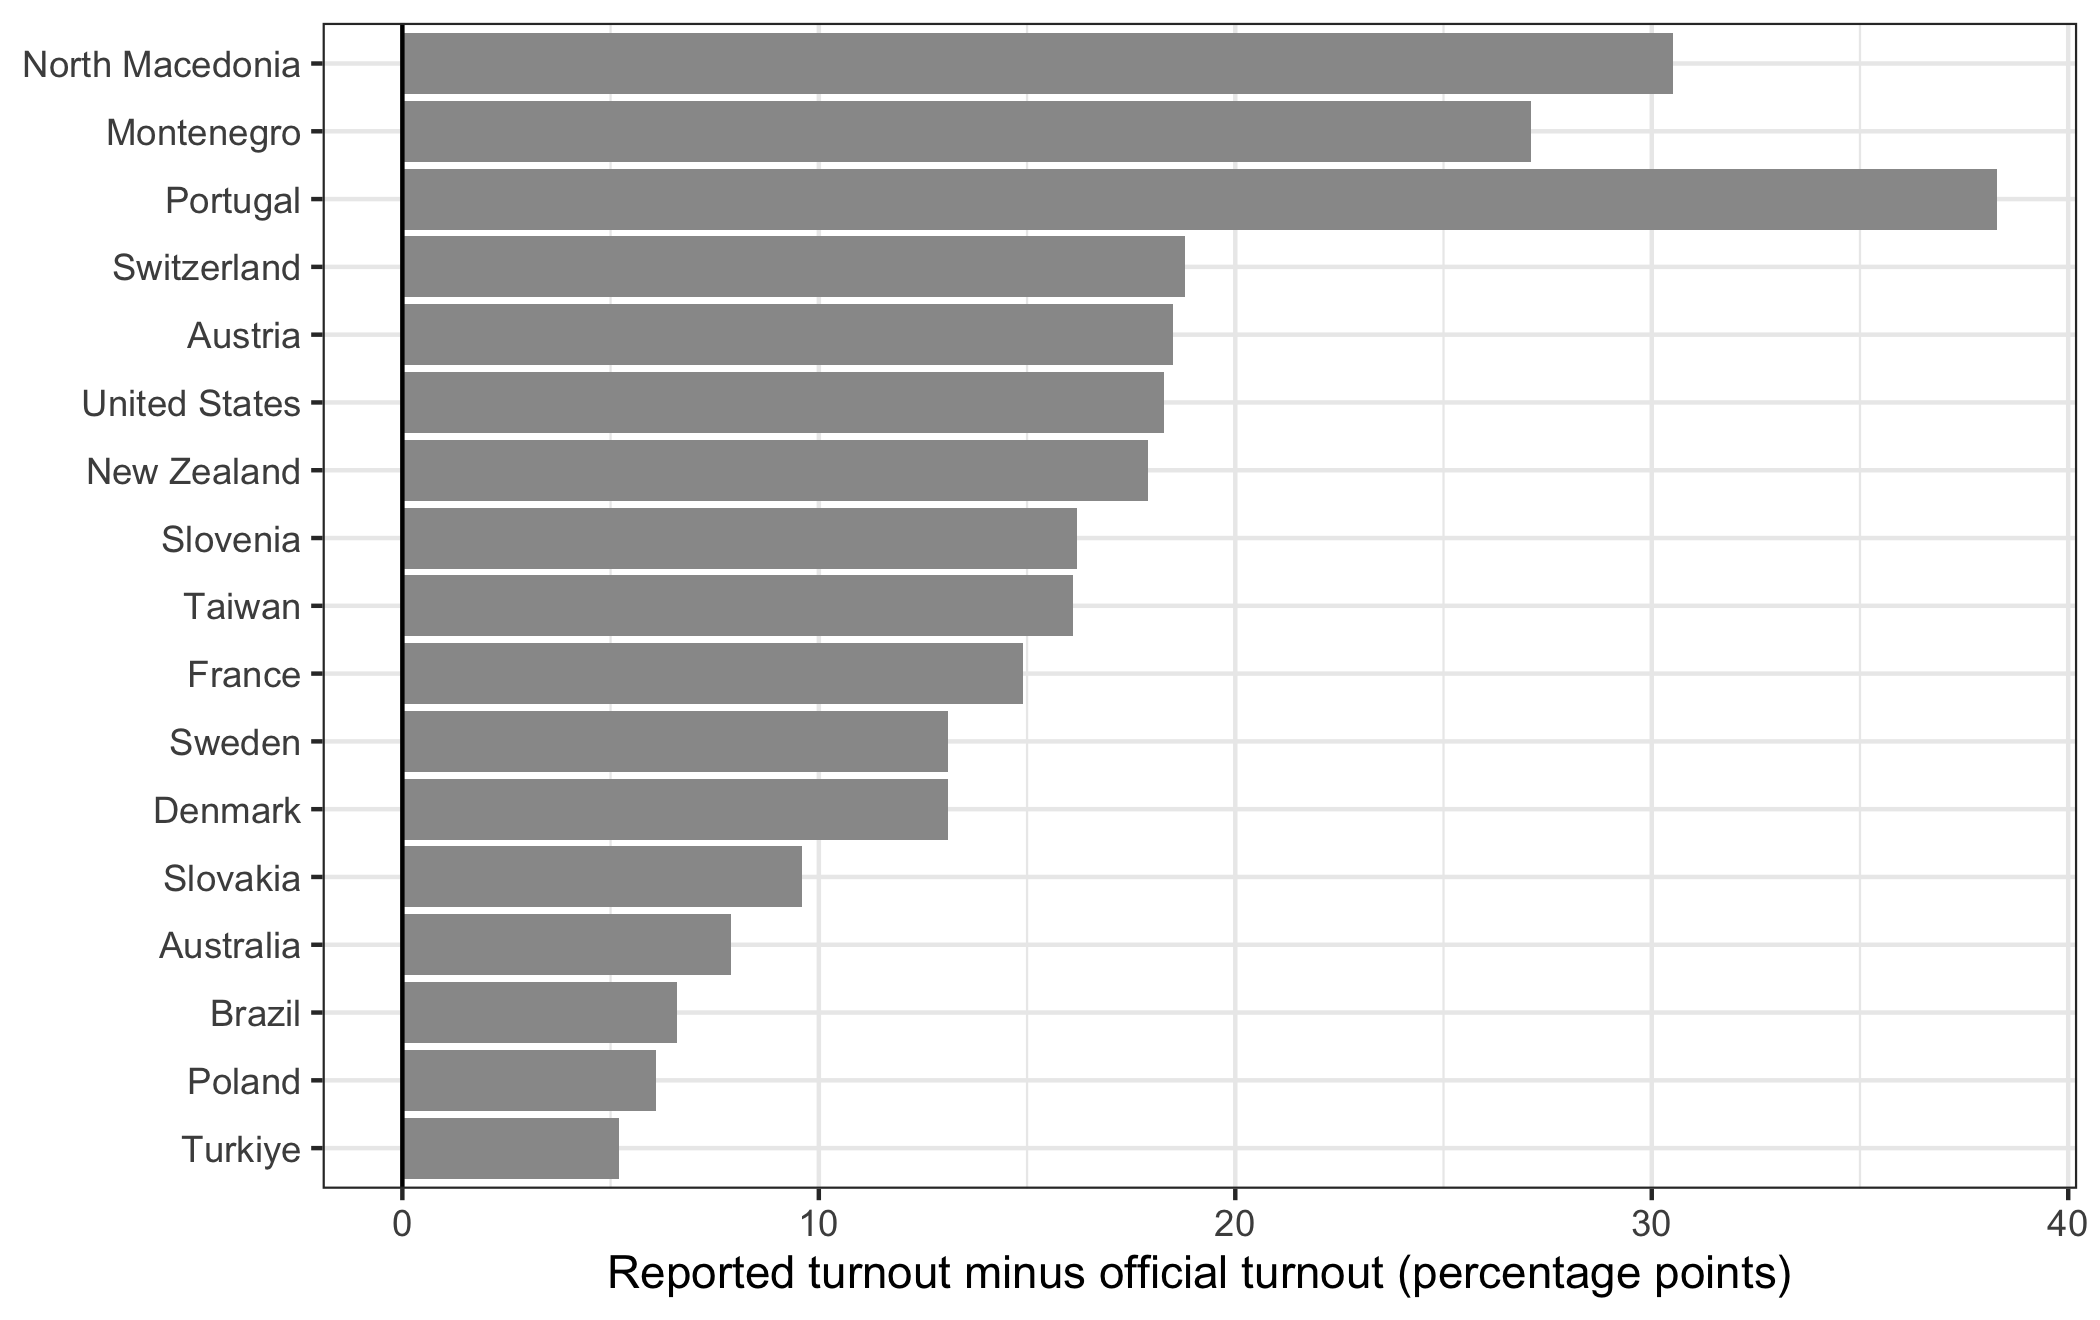
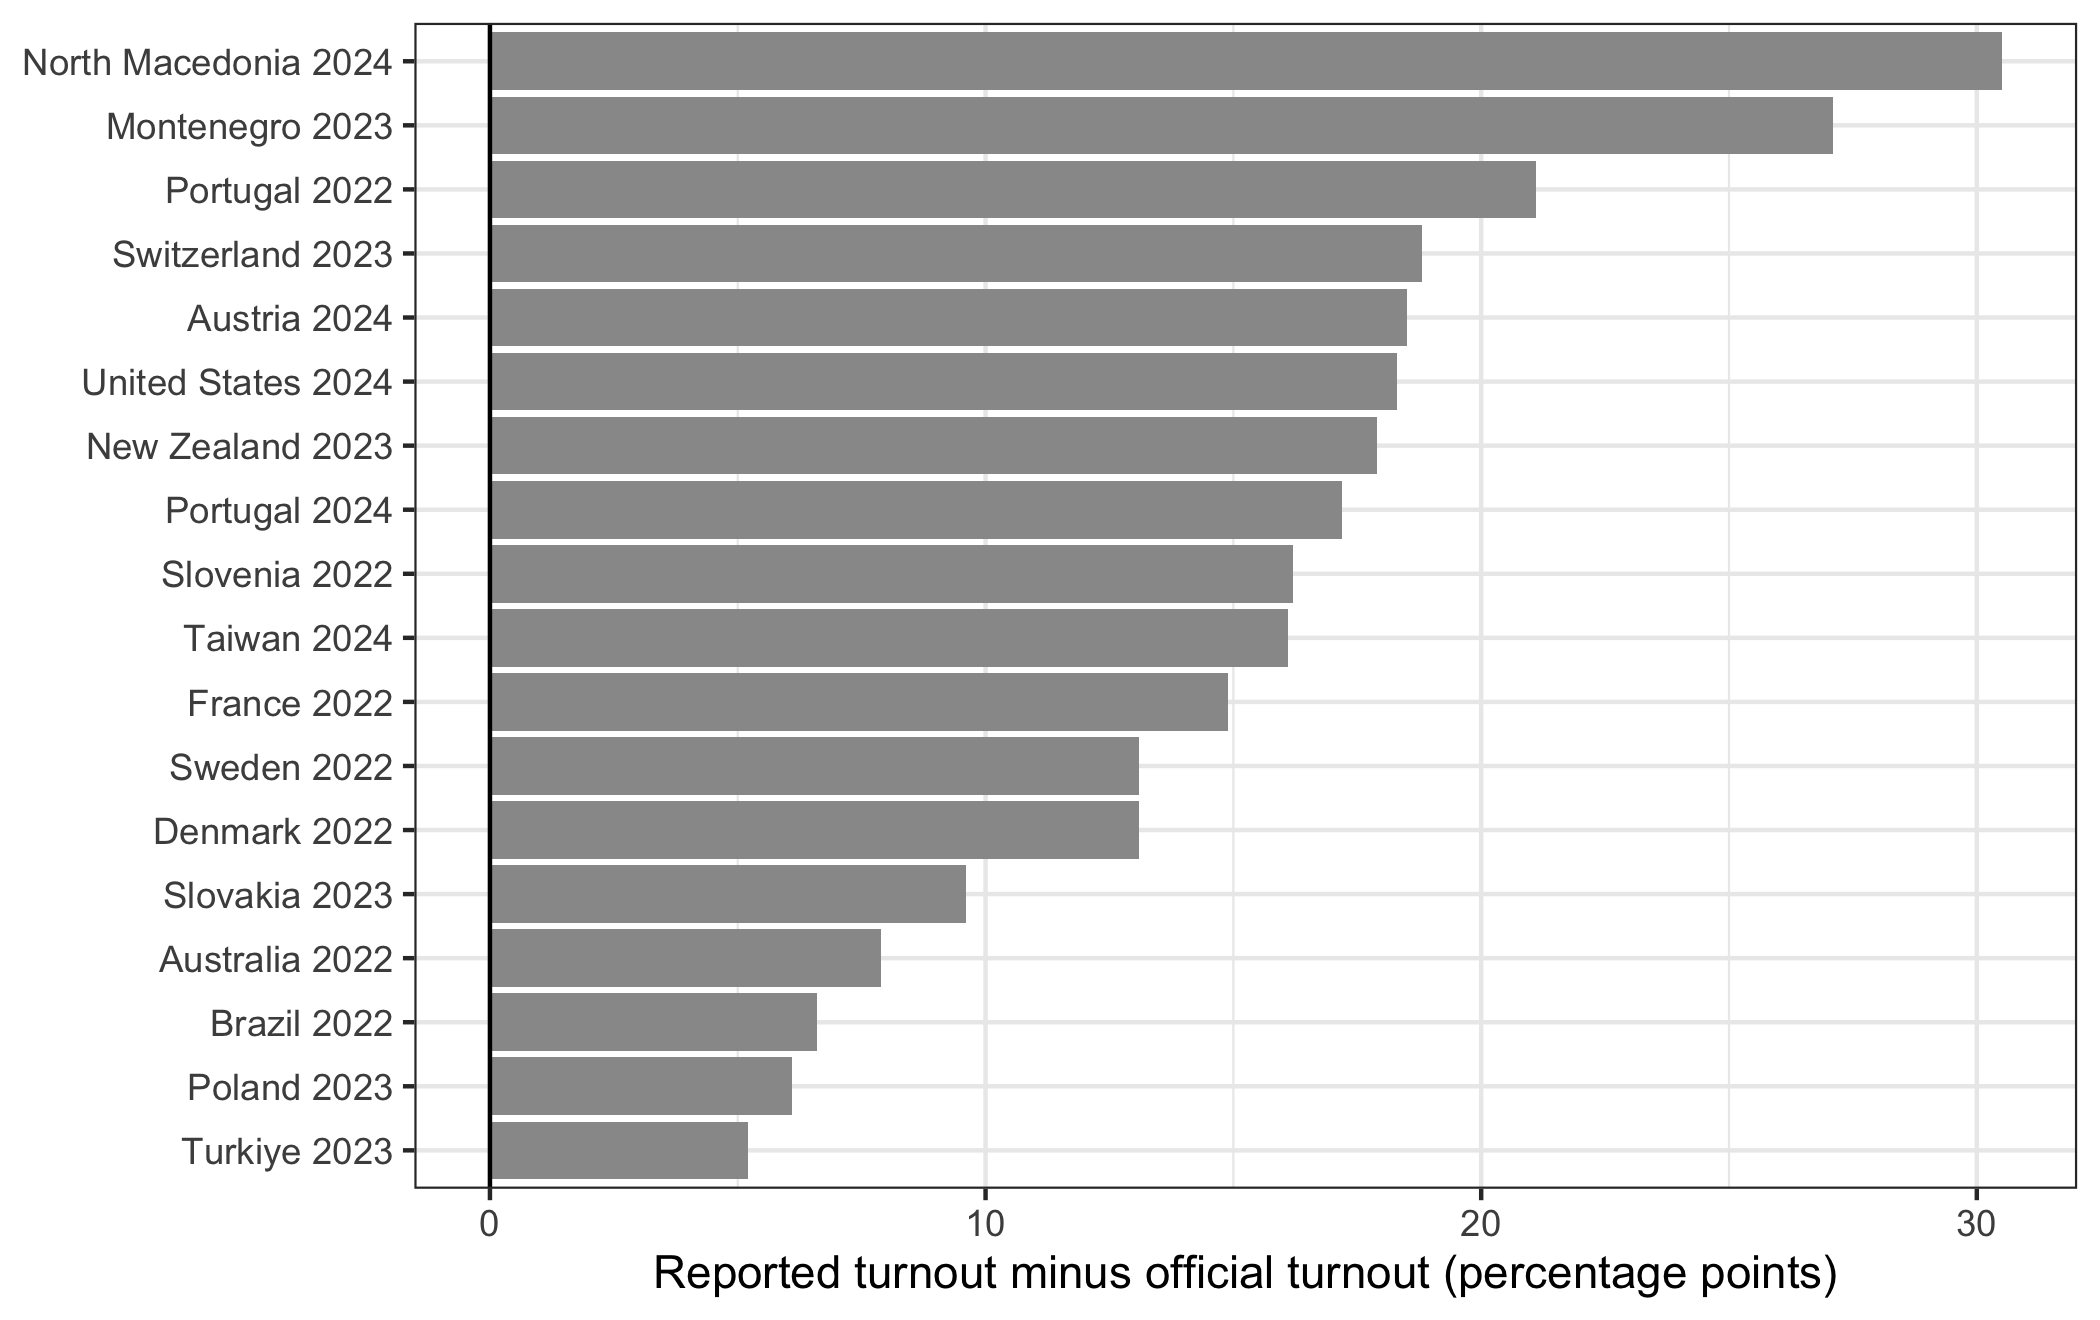
Fix the turnout chart in session 6: one bar per study
The chart labelled each bar by country. Portugal has two CSES Module 6
studies, 2022 (+21.1) and 2024 (+17.2), and geom_col() stacked them into
a single bar of 38.3 points -- larger than any real study, out of order,
and contradicting the text, which names North Macedonia's 30.5 as the
largest. Each bar is now one study, labelled with country and year, and
the chapter says why.

diff --git a/docs/06-hypothesis-testing.html b/docs/06-hypothesis-testing.html
@@ -348,15 +348,18 @@ window.Quarto = {
 <p>Now the important part. That could be bad luck — this particular sample happening to catch more voters than average. If so, another study would miss in the other direction. CSES Module 6 contains 18 election studies in 17 countries, run by different organisations using different methods, so we can look.</p>
 <div class="cell">
 <div class="code-copy-outer-scaffold"><div class="sourceCode cell-code" id="cb4"><pre class="sourceCode r code-with-copy"><code class="sourceCode r"><span id="cb4-1"><a href="#cb4-1" aria-hidden="true" tabindex="-1"></a>turnout <span class="sc">|&gt;</span></span>
-<span id="cb4-2"><a href="#cb4-2" aria-hidden="true" tabindex="-1"></a>  <span class="fu">mutate</span>(<span class="at">country =</span> <span class="fu">reorder</span>(country, gap)) <span class="sc">|&gt;</span></span>
-<span id="cb4-3"><a href="#cb4-3" aria-hidden="true" tabindex="-1"></a>  <span class="fu">ggplot</span>(<span class="fu">aes</span>(<span class="at">x =</span> gap, <span class="at">y =</span> country)) <span class="sc">+</span></span>
-<span id="cb4-4"><a href="#cb4-4" aria-hidden="true" tabindex="-1"></a>  <span class="fu">geom_col</span>(<span class="at">fill =</span> <span class="st">"grey60"</span>) <span class="sc">+</span></span>
-<span id="cb4-5"><a href="#cb4-5" aria-hidden="true" tabindex="-1"></a>  <span class="fu">geom_vline</span>(<span class="at">xintercept =</span> <span class="dv">0</span>) <span class="sc">+</span></span>
-<span id="cb4-6"><a href="#cb4-6" aria-hidden="true" tabindex="-1"></a>  <span class="fu">labs</span>(</span>
-<span id="cb4-7"><a href="#cb4-7" aria-hidden="true" tabindex="-1"></a>    <span class="at">x =</span> <span class="st">"Reported turnout minus official turnout (percentage points)"</span>,</span>
-<span id="cb4-8"><a href="#cb4-8" aria-hidden="true" tabindex="-1"></a>    <span class="at">y =</span> <span class="cn">NULL</span></span>
-<span id="cb4-9"><a href="#cb4-9" aria-hidden="true" tabindex="-1"></a>  ) <span class="sc">+</span></span>
-<span id="cb4-10"><a href="#cb4-10" aria-hidden="true" tabindex="-1"></a>  <span class="fu">theme_bw</span>()</span></code></pre></div><button title="Copy to Clipboard" class="code-copy-button"><i class="bi"></i></button></div>
+<span id="cb4-2"><a href="#cb4-2" aria-hidden="true" tabindex="-1"></a>  <span class="fu">mutate</span>(</span>
+<span id="cb4-3"><a href="#cb4-3" aria-hidden="true" tabindex="-1"></a>    <span class="at">label =</span> <span class="fu">paste</span>(country, year),</span>
+<span id="cb4-4"><a href="#cb4-4" aria-hidden="true" tabindex="-1"></a>    <span class="at">label =</span> <span class="fu">reorder</span>(label, gap)</span>
+<span id="cb4-5"><a href="#cb4-5" aria-hidden="true" tabindex="-1"></a>  ) <span class="sc">|&gt;</span></span>
+<span id="cb4-6"><a href="#cb4-6" aria-hidden="true" tabindex="-1"></a>  <span class="fu">ggplot</span>(<span class="fu">aes</span>(<span class="at">x =</span> gap, <span class="at">y =</span> label)) <span class="sc">+</span></span>
+<span id="cb4-7"><a href="#cb4-7" aria-hidden="true" tabindex="-1"></a>  <span class="fu">geom_col</span>(<span class="at">fill =</span> <span class="st">"grey60"</span>) <span class="sc">+</span></span>
+<span id="cb4-8"><a href="#cb4-8" aria-hidden="true" tabindex="-1"></a>  <span class="fu">geom_vline</span>(<span class="at">xintercept =</span> <span class="dv">0</span>) <span class="sc">+</span></span>
+<span id="cb4-9"><a href="#cb4-9" aria-hidden="true" tabindex="-1"></a>  <span class="fu">labs</span>(</span>
+<span id="cb4-10"><a href="#cb4-10" aria-hidden="true" tabindex="-1"></a>    <span class="at">x =</span> <span class="st">"Reported turnout minus official turnout (percentage points)"</span>,</span>
+<span id="cb4-11"><a href="#cb4-11" aria-hidden="true" tabindex="-1"></a>    <span class="at">y =</span> <span class="cn">NULL</span></span>
+<span id="cb4-12"><a href="#cb4-12" aria-hidden="true" tabindex="-1"></a>  ) <span class="sc">+</span></span>
+<span id="cb4-13"><a href="#cb4-13" aria-hidden="true" tabindex="-1"></a>  <span class="fu">theme_bw</span>()</span></code></pre></div><button title="Copy to Clipboard" class="code-copy-button"><i class="bi"></i></button></div>
 <div class="cell-output-display">
 <div id="fig-turnout" class="quarto-float quarto-figure quarto-figure-center anchored" width="1050">
 <figure class="quarto-float quarto-float-fig figure">
@@ -370,7 +373,7 @@ Figure&nbsp;6.1
 </div>
 </div>
 </div>
-<p><code>geom_col()</code> draws bars whose length is a value in the data, as against <code>geom_bar()</code>, which counts rows. <code>reorder()</code> sorts one variable by another, so the countries come out in order of the size of the gap rather than alphabetically. <code>geom_vline()</code> draws a vertical line, with <code>xintercept</code> saying where on the horizontal axis it sits. <code>y = NULL</code> removes the axis title, because “country” over a list of country names is a label that carries nothing.</p>
+<p><code>geom_col()</code> draws bars whose length is a value in the data, as against <code>geom_bar()</code>, which counts rows. Each bar is one study, labelled with <code>paste()</code> as country and year: Portugal has two, and labelled by country alone its two bars would be stacked into one, as long as both gaps added together. <code>reorder()</code> sorts one variable by another, so the studies come out in order of the size of the gap rather than alphabetically. <code>geom_vline()</code> draws a vertical line, with <code>xintercept</code> saying where on the horizontal axis it sits. <code>y = NULL</code> removes the axis title, because “label” over a list of countries and years carries nothing.</p>
 <p>Every single one is positive.</p>
 <div class="cell">
 <div class="code-copy-outer-scaffold"><div class="sourceCode cell-code" id="cb5"><pre class="sourceCode r code-with-copy"><code class="sourceCode r"><span id="cb5-1"><a href="#cb5-1" aria-hidden="true" tabindex="-1"></a>turnout <span class="sc">|&gt;</span></span>

diff --git a/docs/index.html b/docs/index.html
@@ -291,7 +291,7 @@ pre > code.sourceCode > span > a:first-child::before { text-decoration: underlin
     <div>
     <div class="quarto-title-meta-heading">Published</div>
     <div class="quarto-title-meta-contents">
-      <p class="date">29.09.2026</p>
+      <p class="date">05.10.2026</p>
     </div>
   </div>
   
